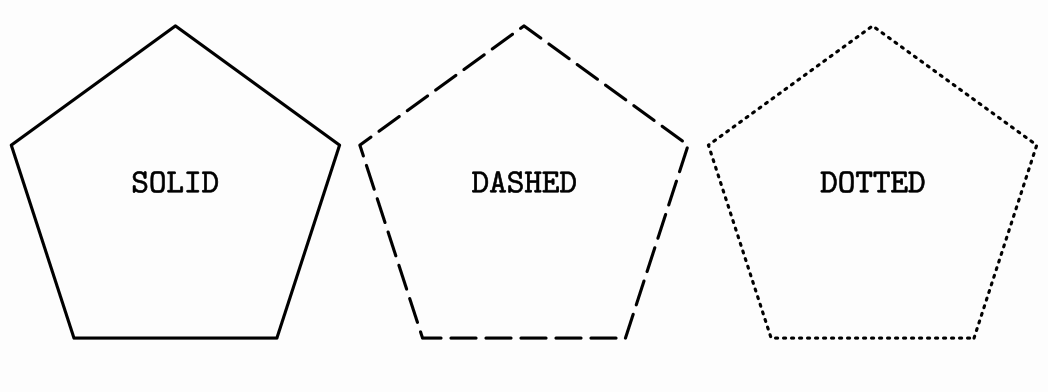
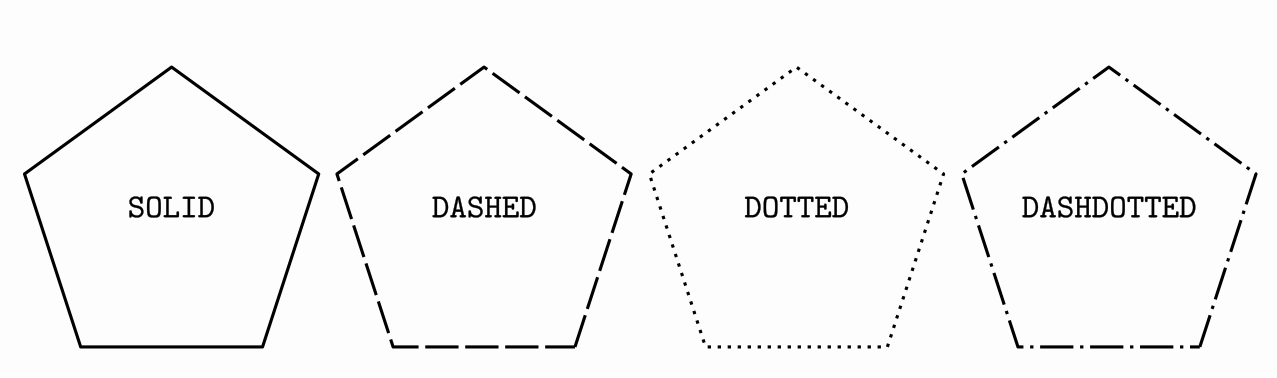
Signed-off-by: David Gutiérrez Rubio <davidgutierrezrubio@gmail.com>

diff --git a/manual/03_Styling/Styling.md b/manual/03_Styling/Styling.md
@@ -16,6 +16,7 @@ Shape r = Shape.regularPolygon(5)
     .drawColor(JMColor.parse("#041137"))
     .thickness(5);
 ```
+When added to the scene, it will show something like this:
 
 <img src="02_01_colors.png" alt="image-20201105234514407" style="zoom:25%;" />
 
@@ -98,20 +99,23 @@ waitSeconds(3);
 
 ## DashStyle
 
-The `dashStyle`method sets the dash used to draw the outline, chosen from the enum `DashStyle`. Currently, there are 3 different styles, `SOLID`, `DASHED`and `DOTTED`. The following code creates 3 pentagons with these dash styles.
+The `dashStyle`method sets the dash used to draw the outline, chosen from the enum `DashStyle`. Currently, there are 4 different styles, `SOLID`, `DASHED`, `DOTTED`and `DASHDOTTED`. The following code creates 4 pentagons with these dash styles.
 
 ```java
-Shape r1 = Shape.regularPolygon(5).thickness(5);
-Shape r2 = r1.copy().stackTo(r1, Anchor.Type.RIGHT,.1);
-Shape r3 = r1.copy().stackTo(r2, Anchor.Type.RIGHT,.1);
+Shape r1 = Shape.regularPolygon(5).thickness(10);
+Shape r2 = r1.copy().stackTo(r1, Anchor.Type.RIGHT, .1);
+Shape r3 = r1.copy().stackTo(r2, Anchor.Type.RIGHT, .1);
+Shape r4 = r1.copy().stackTo(r3, Anchor.Type.RIGHT, .1);
 r1.dashStyle(DashStyle.SOLID);
 r2.dashStyle(DashStyle.DASHED);
 r3.dashStyle(DashStyle.DOTTED);
+r4.dashStyle(DashStyle.DASHDOTTED);//Note: this style is available from 0.9.4-SNAPSHOT version
 add(LaTeXMathObject.make("{\\tt SOLID}").stackTo(r1, Anchor.Type.CENTER));
 add(LaTeXMathObject.make("{\\tt DASHED}").stackTo(r2, Anchor.Type.CENTER));
 add(LaTeXMathObject.make("{\\tt DOTTED}").stackTo(r3, Anchor.Type.CENTER));
-add(r1,r2,r3);
-camera.adjustToAllObjects();
+add(LaTeXMathObject.make("{\\tt DASHDOTTED}").stackTo(r4, Anchor.Type.CENTER));
+add(r1, r2, r3,r4);
+camera.centerAtAllObjects();
 waitSeconds(5);
 ```
 
@@ -122,7 +126,7 @@ waitSeconds(5);
 A concrete combination of drawing parameters can be saved in styles. The `config`objects stores the saved styles and has methods to manage them. To apply a style to an object, use the method `.style(styleName)`.
 
 ```java
-Shape triangle = Shape.regularPolygon(3).thickness(5).dashStyle(MODrawProperties.DashStyle.DASHED).fillColor("steelblue");
+Shape triangle = Shape.regularPolygon(3).thickness(8).dashStyle(MODrawProperties.DashStyle.DASHED).fillColor("steelblue");
 //Creates style named solidRed
 config.createStyleFrom(triangle, "myStyle");
 Shape circle = Shape.circle().scale(.5).stackTo(triangle, Anchor.Type.LEFT);
@@ -184,6 +188,8 @@ Where do JMathAnim look for the files? Well, there are 3 location types that you
 
 By default, the resources path is located at `<your current root project>/resources` folder. So if you want to add resources locally to your project you should create this folder. Of course, you can change the default `resources` folder with the method `config.setResourcesDir(newDir)`.
 
+This way, if you want to store all your precious resources in a system-wide scope, you can store them in a folder (say `/home/bob/myJMathAnimResources`) and make JMathAnim to look for resources there with the method `config.setResourcesDir("/home/bob/myJMathAnimResources")` at the beginning of the `setupSketch()` method (Note that the "!" modifier is not needed here).
+
 A typical `resources` folder follows this structure:
 ```
 resources/
@@ -205,8 +211,6 @@ A few examples:
 * the `config.parseFile("file.xml")` command will try to load `file.xml`located at `<your current root project>/resources/config` folder
 * the `config.parseFile("#file.xml") ` command will try to load `file.xml` internally stored at the jar library.
 * the `config.parseFile("!/home/user/myResources/file.xml") ` command will try to load `file.xml` from the location `/home/user/myResources/file.xml`.
-
-This way, if you want to store all your precious resources in a system-wide scope, you can store them in a folder (say `/home/bob/myJMathAnimResources`) and make JMathAnim to look for resources there with the method `config.setResourcesDir("/home/bob/myJMathAnimResources")` at the beginning of the `setupSketch()` method (Note that the "!" modifier is not needed here).
 
 > Note: The "!" modifier also can be used when specifying a file path in the config files, like background images, for example.
 
@@ -256,27 +260,32 @@ You can have several config files with different, independent aspects. This is t
         <style name="default">
             <drawColor>black</drawColor>
             <fillColor>#00000000</fillColor>
-            <thickness>1</thickness>
+            <thickness>4</thickness>
         </style>
         <style name="latexdefault">
             <drawColor>black</drawColor>
             <fillColor>black</fillColor>
-            <thickness>.5</thickness>
+            <thickness>1</thickness>
         </style>
         <style name="solidRed">
             <drawColor>black</drawColor>
             <fillColor>#f55652</fillColor>
-            <thickness>4</thickness>
+            <thickness>8</thickness>
         </style>
         <style name="solidBlue">
             <drawColor>black</drawColor>
             <fillColor>#7ca0c0</fillColor>
-            <thickness>4</thickness>
+            <thickness>8</thickness>
         </style>
-         <style name="solidGreen">
+        <style name="solidGreen">
             <drawColor>black</drawColor>
             <fillColor>#9bc693</fillColor>
-            <thickness>4</thickness>
+            <thickness>8</thickness>
+        </style>
+        <style name="solidOrange">
+            <drawColor>black</drawColor>
+            <fillColor>orange</fillColor>
+            <thickness>8</thickness>
         </style>
     </styles>
 </JMathAnimConfig>
@@ -287,24 +296,19 @@ The JAR of the JMathAnim library has several predefined config files that you ca
 * The `config.parseFile("#preview.xml")`  loads settings for previewing the animation, with low resolution of 1066x600 at 30pfs, show preview windows and not creating movie. Ideal for the creation process of the scene.
 * The `config.parseFile("#production.xml")` loads settings for generating the final animation, with high resolution 1920x1080 at 60pfs, not showing preview windows and creating a movie. This config should be loaded when the designing process is done and to create the final animation.
 * The `config.parseFile("#light.xml")` loads settings for black drawings over a white background. The default colors are black.
-* The `config.parseFile("#dark.xml")` loads settings for white drawings over a black background (well, almost black). The default colors are white.
+* The `config.parseFile("#dark.xml")` loads settings for white drawings over a black background. The default colors are white.
 
 You can check all the internal config files at the [github sources folder](https://github.com/davidgutierrezrubio/jmathanim/tree/master/src/resources/config).
 
 The `<styles>` tag allows defining styles to apply to your animation. There are some convention-named styles that are important (names are case-insensitive):
 
 *  Style `default`: All MathObjects (except the next ones mentioned) load this style when created.
-
-* Style `latexDefault`: Applied by default to all `LaTexMathObject` instances.
-
-* Style`functionGraphDefault`: For function graphs.
-
-* Style `axisdefault`: For x-axis and y-axis.
-
-* Style `axistickdefault`: For x-ticks and y-ticks in the axes.
-
-* Style `axislegenddefault`: For legends in ticks of axes.
-
+*  Style `dotdefault`: All `Point` objects load this style when created.
+*  Style `latexDefault`: Applied by default to all `LaTexMathObject` instances.
+*  Style`functionGraphDefault`: For function graphs.
+*  Style `axisdefault`: For x-axis and y-axis.
+*  Style `axistickdefault`: For x-ticks and y-ticks in the axes.
+*  Style `axislegenddefault`: For legends in ticks of axes.
 * If no style with these names is defined, a default style with white stroke and no fill will be applied.
 
 Below there is an example image, with the same scene, loading `dark.xml` and `light.xml` config files.  ![image-20201208101038042](darkVsLight.png)
@@ -317,24 +321,27 @@ The `<include>` tag that appears at the beginning loads another config files.  I
         <style name="dotRedCircle">
             <drawColor>RED</drawColor>
             <fillColor>TRANSPARENT</fillColor>
-            <thickness>.5</thickness>
+            <<JMathAnimConfig>  
+    <styles>
+        <style name="redCircle">
+            <drawColor>RED</drawColor>
+            <thickness>30</thickness>
             <dotStyle>circle</dotStyle>
         </style>
-        <style name="dotBlueCross">
+        <style name="blueCross">
             <drawColor>#6ca2e0</drawColor>
-            <fillColor>TRANSPARENT</fillColor>
-            <thickness>.5</thickness>
+            <thickness>30</thickness>
             <dotStyle>cross</dotStyle>
         </style>
-        <style name="dotYellowPlus">
+        <style name="yellowPlus">
             <drawColor>#FCE16D</drawColor>
-            <fillColor>TRANSPARENT</fillColor>
-            <thickness>.5</thickness>
+            <thickness>30</thickness>
             <dotStyle>plus</dotStyle>
         </style>
     </styles>
-</JMathAnimConfig>
 ```
+
+Note that the thickness required for a dot to be visible is higher than a Shape.  That is because a `Point`with thickness 4 will have the same width as a stroke from a `Shape` with the same thickness. `Point` objects require higher thickness parameter in order to be clearly visible.
 
 ## Configuration files syntax
 
@@ -365,7 +372,7 @@ Inside this tag, we may have:
   <style name="myStyle">
       <drawColor>WHITE</drawColor>
       <fillColor>#f55652</fillColor>
-      <thickness>4.5</thickness>
+      <thickness>7</thickness>
       <dashStyle>SOLID</dashStyle>
       <absoluteThickness>true</absoluteThickness>
       <dotStyle></dotStyle>

diff --git a/manual/02_BasicShapes/BasicShapes.md b/manual/02_BasicShapes/BasicShapes.md
@@ -55,9 +55,9 @@ The code used was
 
 @Override
 public void runSketch() throws Exception {
-        Point A = Point.at(-.5, 0).dotStyle(Point.Syle.CIRCLE);
-        Point B = Point.at(0, 0).dotStyle(Point.Syle.CROSS);
-        Point C = Point.at(.5, 0).dotStyle(Point.Syle.PLUS);
+        Point A = Point.at(-.5, 0).dotStyle(Point.DotSyle.CIRCLE);
+        Point B = Point.at(0, 0).dotStyle(Point.DotSyle.CROSS);
+        Point C = Point.at(.5, 0).dotStyle(Point.DotSyle.PLUS);
         add(A, B, C); //Add the 3 points to the scene
         waitSeconds(5); //Give me time to do a screenshot!
     }
@@ -404,7 +404,7 @@ r.getUR();//Gets a Point lying the Upper-Right corner
 r.getDL();//Gets a Point lying the Lower-Left corner
 r.getDL();//Gets a Point lying the Lower-Right corner
 r.centerAt(dst);//Moves the Rect so that its center lies in dst
-r.getRotatedRect(45*DEGREES);//Returns the smallest Rect that containts the original roated 45 degrees
+r.getRotatedRect(45*DEGREES);//Returns the smallest Rect that containts the original rotated 45 degrees
 r.getRelPoint(.25, .25);//Returns a Point located at the relative coordinates (.25,.25) of the Rect
 r.getRelPoint(.5,.5);//This is the same as r.getCenter()
 ```
@@ -415,15 +415,15 @@ Thus, for example,  the following code will draw some dots at key points of the 
 
 ```java
 Rect mathView = getMathView();
-Point center = mathView.getCenter().dotStyle(Point.DotSyle.PLUS).thickness(2);//A black point with a plus sign at the center
-Point UL = mathView.getUL().thickness(2);//Black point at upper-left corner of the screen
-Point UR = mathView.getUR().thickness(2);//Black point at upper-right corner of the screen
-Point DL = mathView.getDL().thickness(2);//Black point at lower-left corner of the screen
-Point DR = mathView.getDR().thickness(2);//Black point at lower-right corner of the screen
-Point Q1 = mathView.getRelPoint(.25, .25).thickness(2).drawColor("red");//Red point at (25%,25%) of the screen
-Point Q2 = mathView.getRelPoint(.75, .25).thickness(2).drawColor("green");//Green point at (75%,25%) of the screen
-Point Q3 = mathView.getRelPoint(.75, .75).thickness(2).drawColor("yellow");//Yellow point at (75%,75%) of the screen
-Point Q4 = mathView.getRelPoint(.25, .75).thickness(2).drawColor("blue");//Blue point at (25%,75%) of the screen
+Point center = mathView.getCenter().dotStyle(Point.DotSyle.PLUS);//A black point with a plus sign at the center
+Point UL = mathView.getUL();//Black point at upper-left corner of the screen
+Point UR = mathView.getUR();//Black point at upper-right corner of the screen
+Point DL = mathView.getDL();//Black point at lower-left corner of the screen
+Point DR = mathView.getDR();//Black point at lower-right corner of the screen
+Point Q1 = mathView.getRelPoint(.25, .25).drawColor("red");//Red point at (25%,25%) of the screen
+Point Q2 = mathView.getRelPoint(.75, .25).drawColor("green");//Green point at (75%,25%) of the screen
+Point Q3 = mathView.getRelPoint(.75, .75).drawColor("yellow");//Yellow point at (75%,75%) of the screen
+Point Q4 = mathView.getRelPoint(.25, .75).drawColor("blue");//Blue point at (25%,75%) of the screen
 add(center, UL, UR, DL, DR, Q1, Q2, Q3, Q4);
 add(Shape.rectangle(getMathView()).scale(.9));//add a rectangle with size 90% of the screen
 waitSeconds(5);
